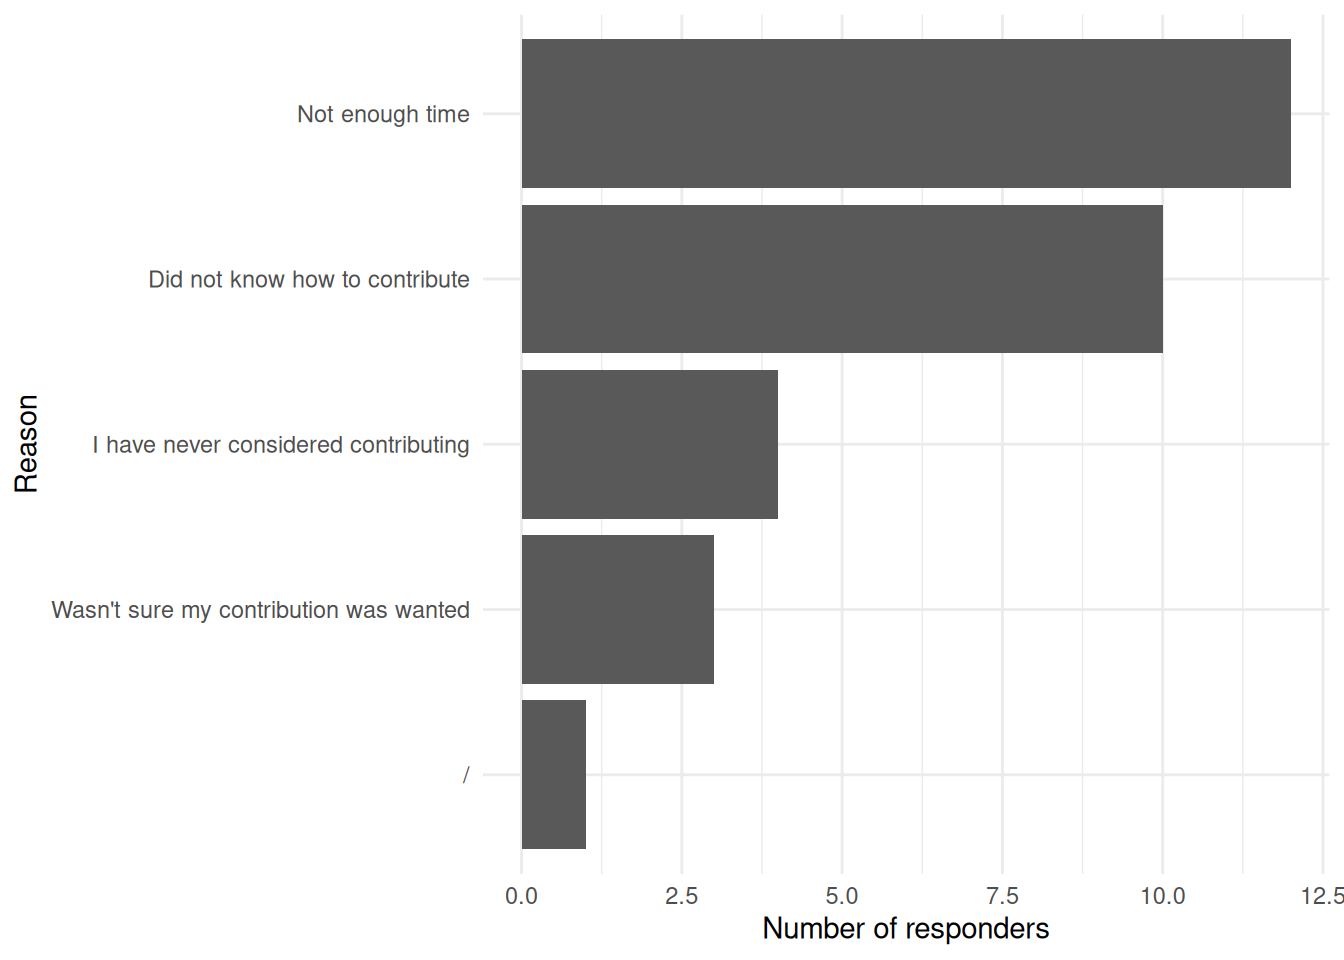
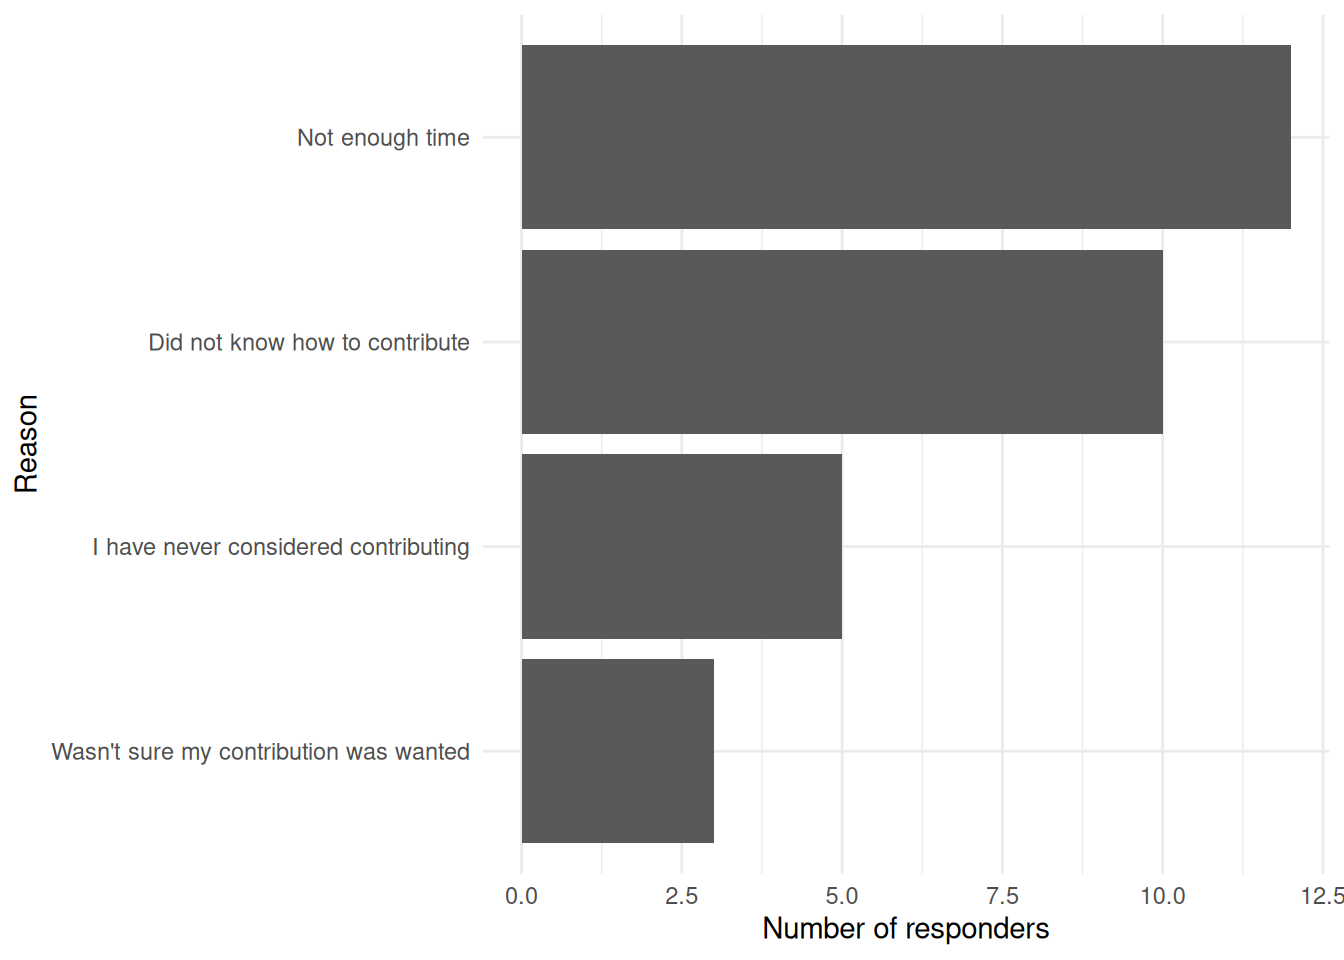
Improve ordering of some plots, fix an uncleaned entry

diff --git a/mixs-ux-survey.html b/mixs-ux-survey.html
@@ -7,7 +7,7 @@
 <meta name="viewport" content="width=device-width, initial-scale=1.0, user-scalable=yes">
 
 <meta name="author" content="James A. Fellows Yates">
-<meta name="dcterms.date" content="2026-06-03">
+<meta name="dcterms.date" content="2026-06-04">
 
 <title>MIxS-UX Survey on experiences on the use and development of MIxS metadata standards</title>
 <style>
@@ -96,7 +96,7 @@ ul.task-list li input[type="checkbox"] {
     <div>
     <div class="quarto-title-meta-heading">Published</div>
     <div class="quarto-title-meta-contents">
-      <p class="date">June 3, 2026</p>
+      <p class="date">June 4, 2026</p>
     </div>
   </div>
   
